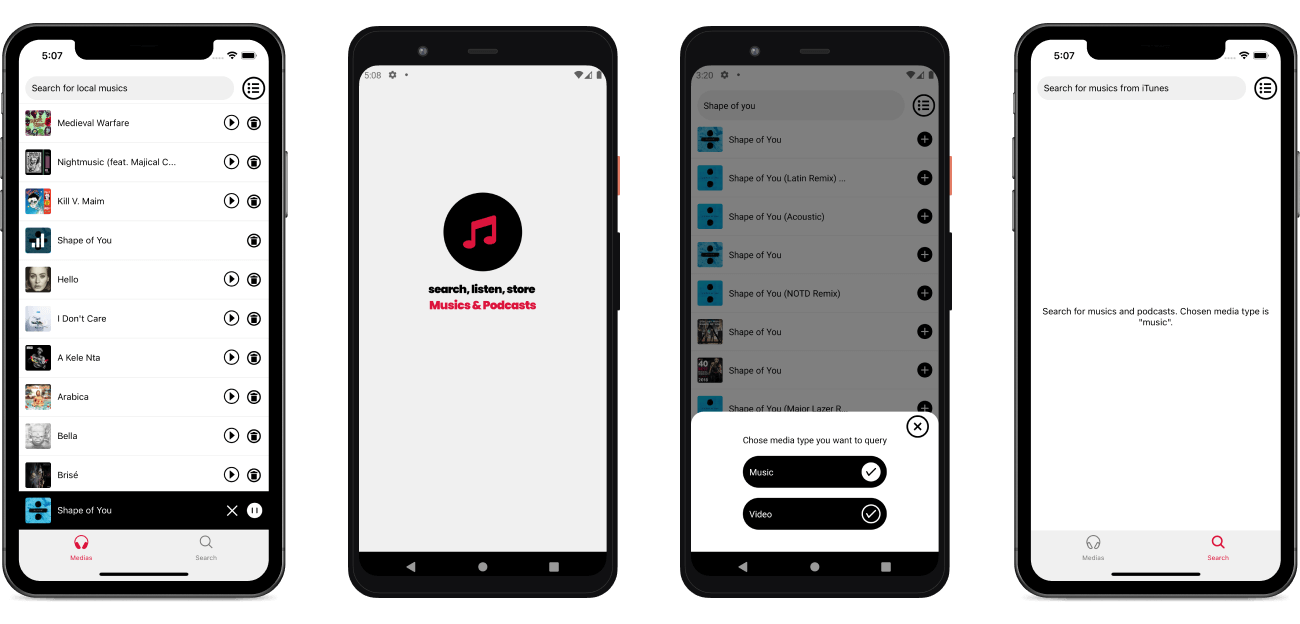
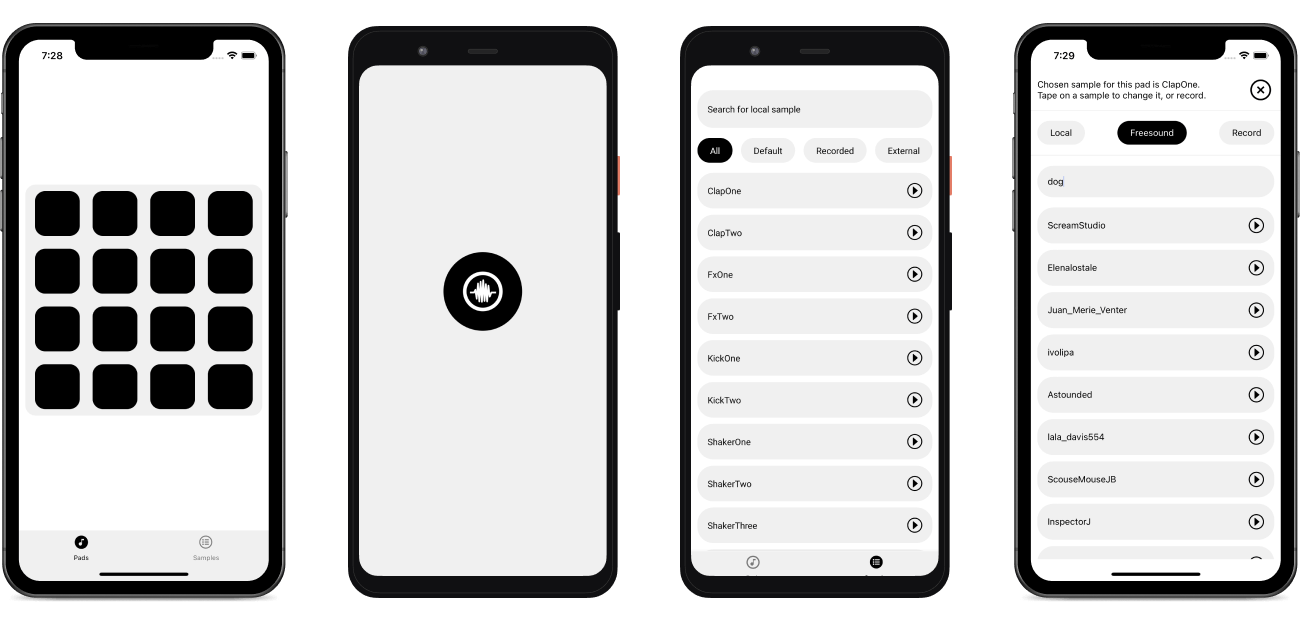
updates readme image & fixes layout issue in SampleList

diff --git a/src/features/soundboard/SampleList.tsx b/src/features/soundboard/SampleList.tsx
@@ -2,7 +2,6 @@ import React, { FC, useState } from "react";
 import { Pressable, ScrollView, StyleSheet, Text, View } from "react-native";
 import { useAppSelector } from "../../app/hooks/hooks";
 import Input from "../../components/Input";
-import Screen from "../../components/Screen";
 import colors from "../../config/colors";
 import SamplePreview from "./SamplePreview";
 import { getFiltredSampleList, Sample } from "./sampleSlice";
@@ -26,7 +25,7 @@ const SampleList: FC<Props> = ({ handleSamplePress }) => {
     filtredSample = samples;
   }
   return (
-    <Screen>
+    <>
       <View style={styles.topbar}>
         <Input
           value={searchText}
@@ -83,7 +82,7 @@ const SampleList: FC<Props> = ({ handleSamplePress }) => {
           <SamplePreview key={m.id} sample={m} onPress={handleSamplePress} />
         ))}
       </ScrollView>
-    </Screen>
+    </>
   );
 };
 
